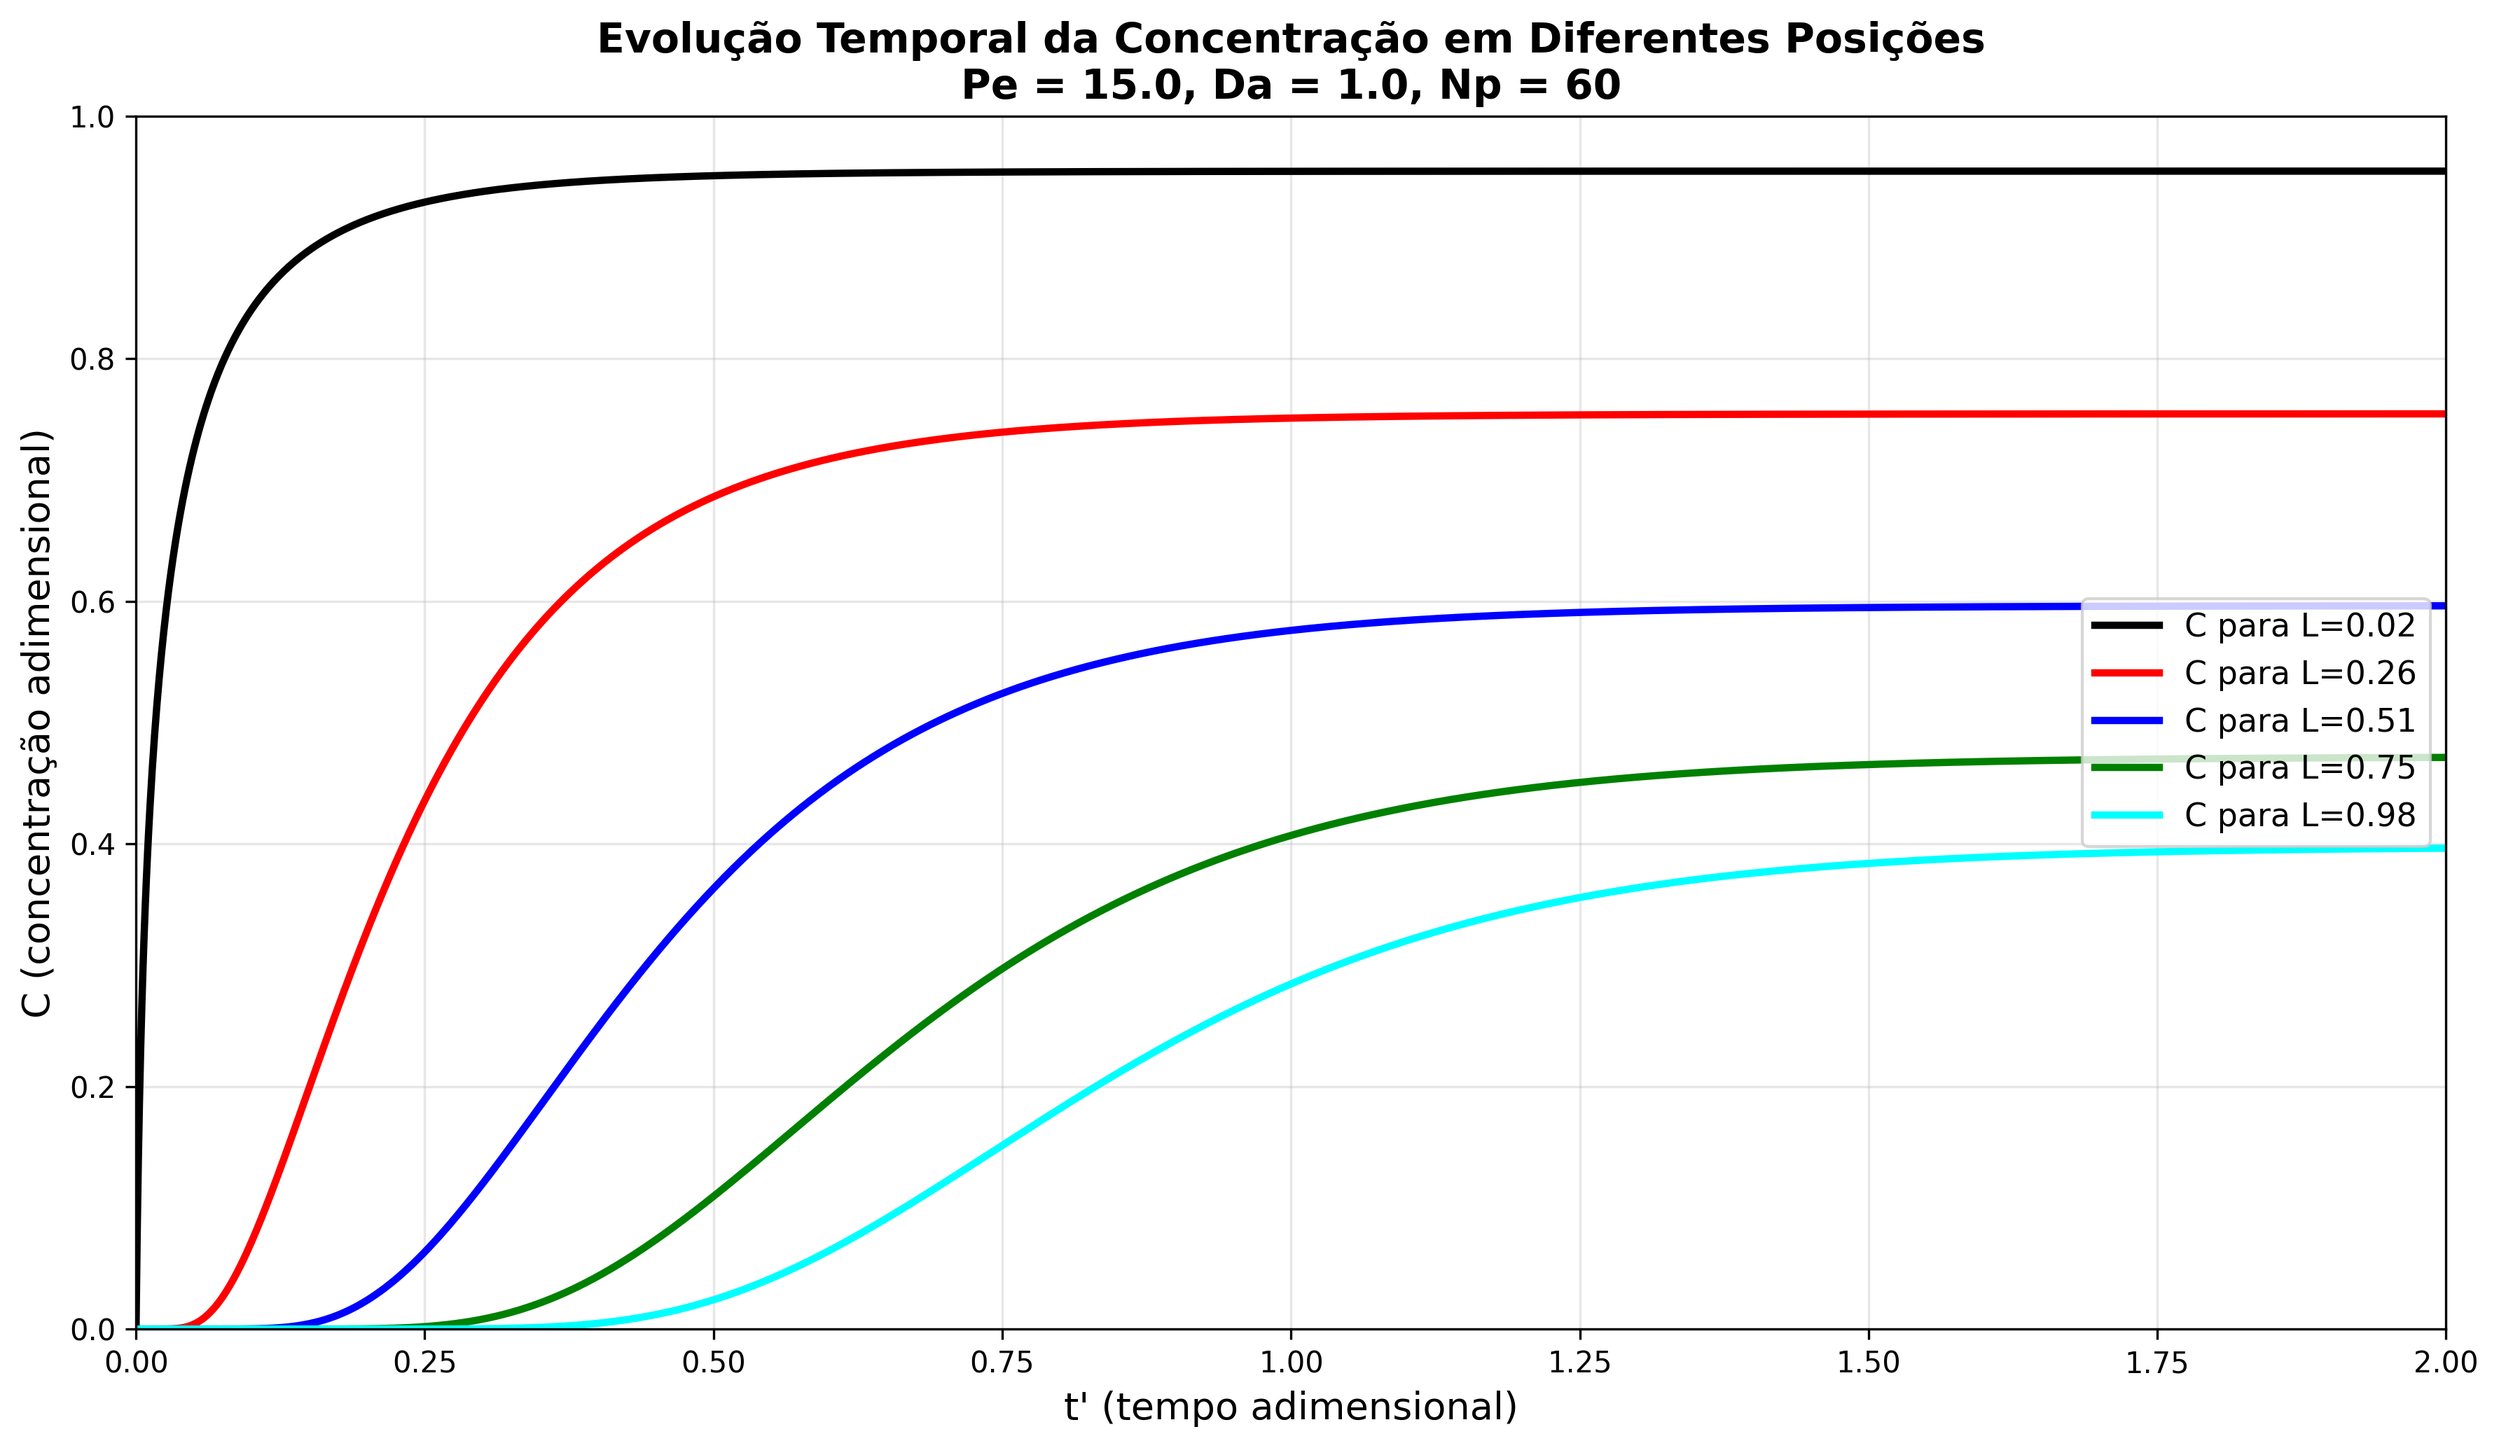
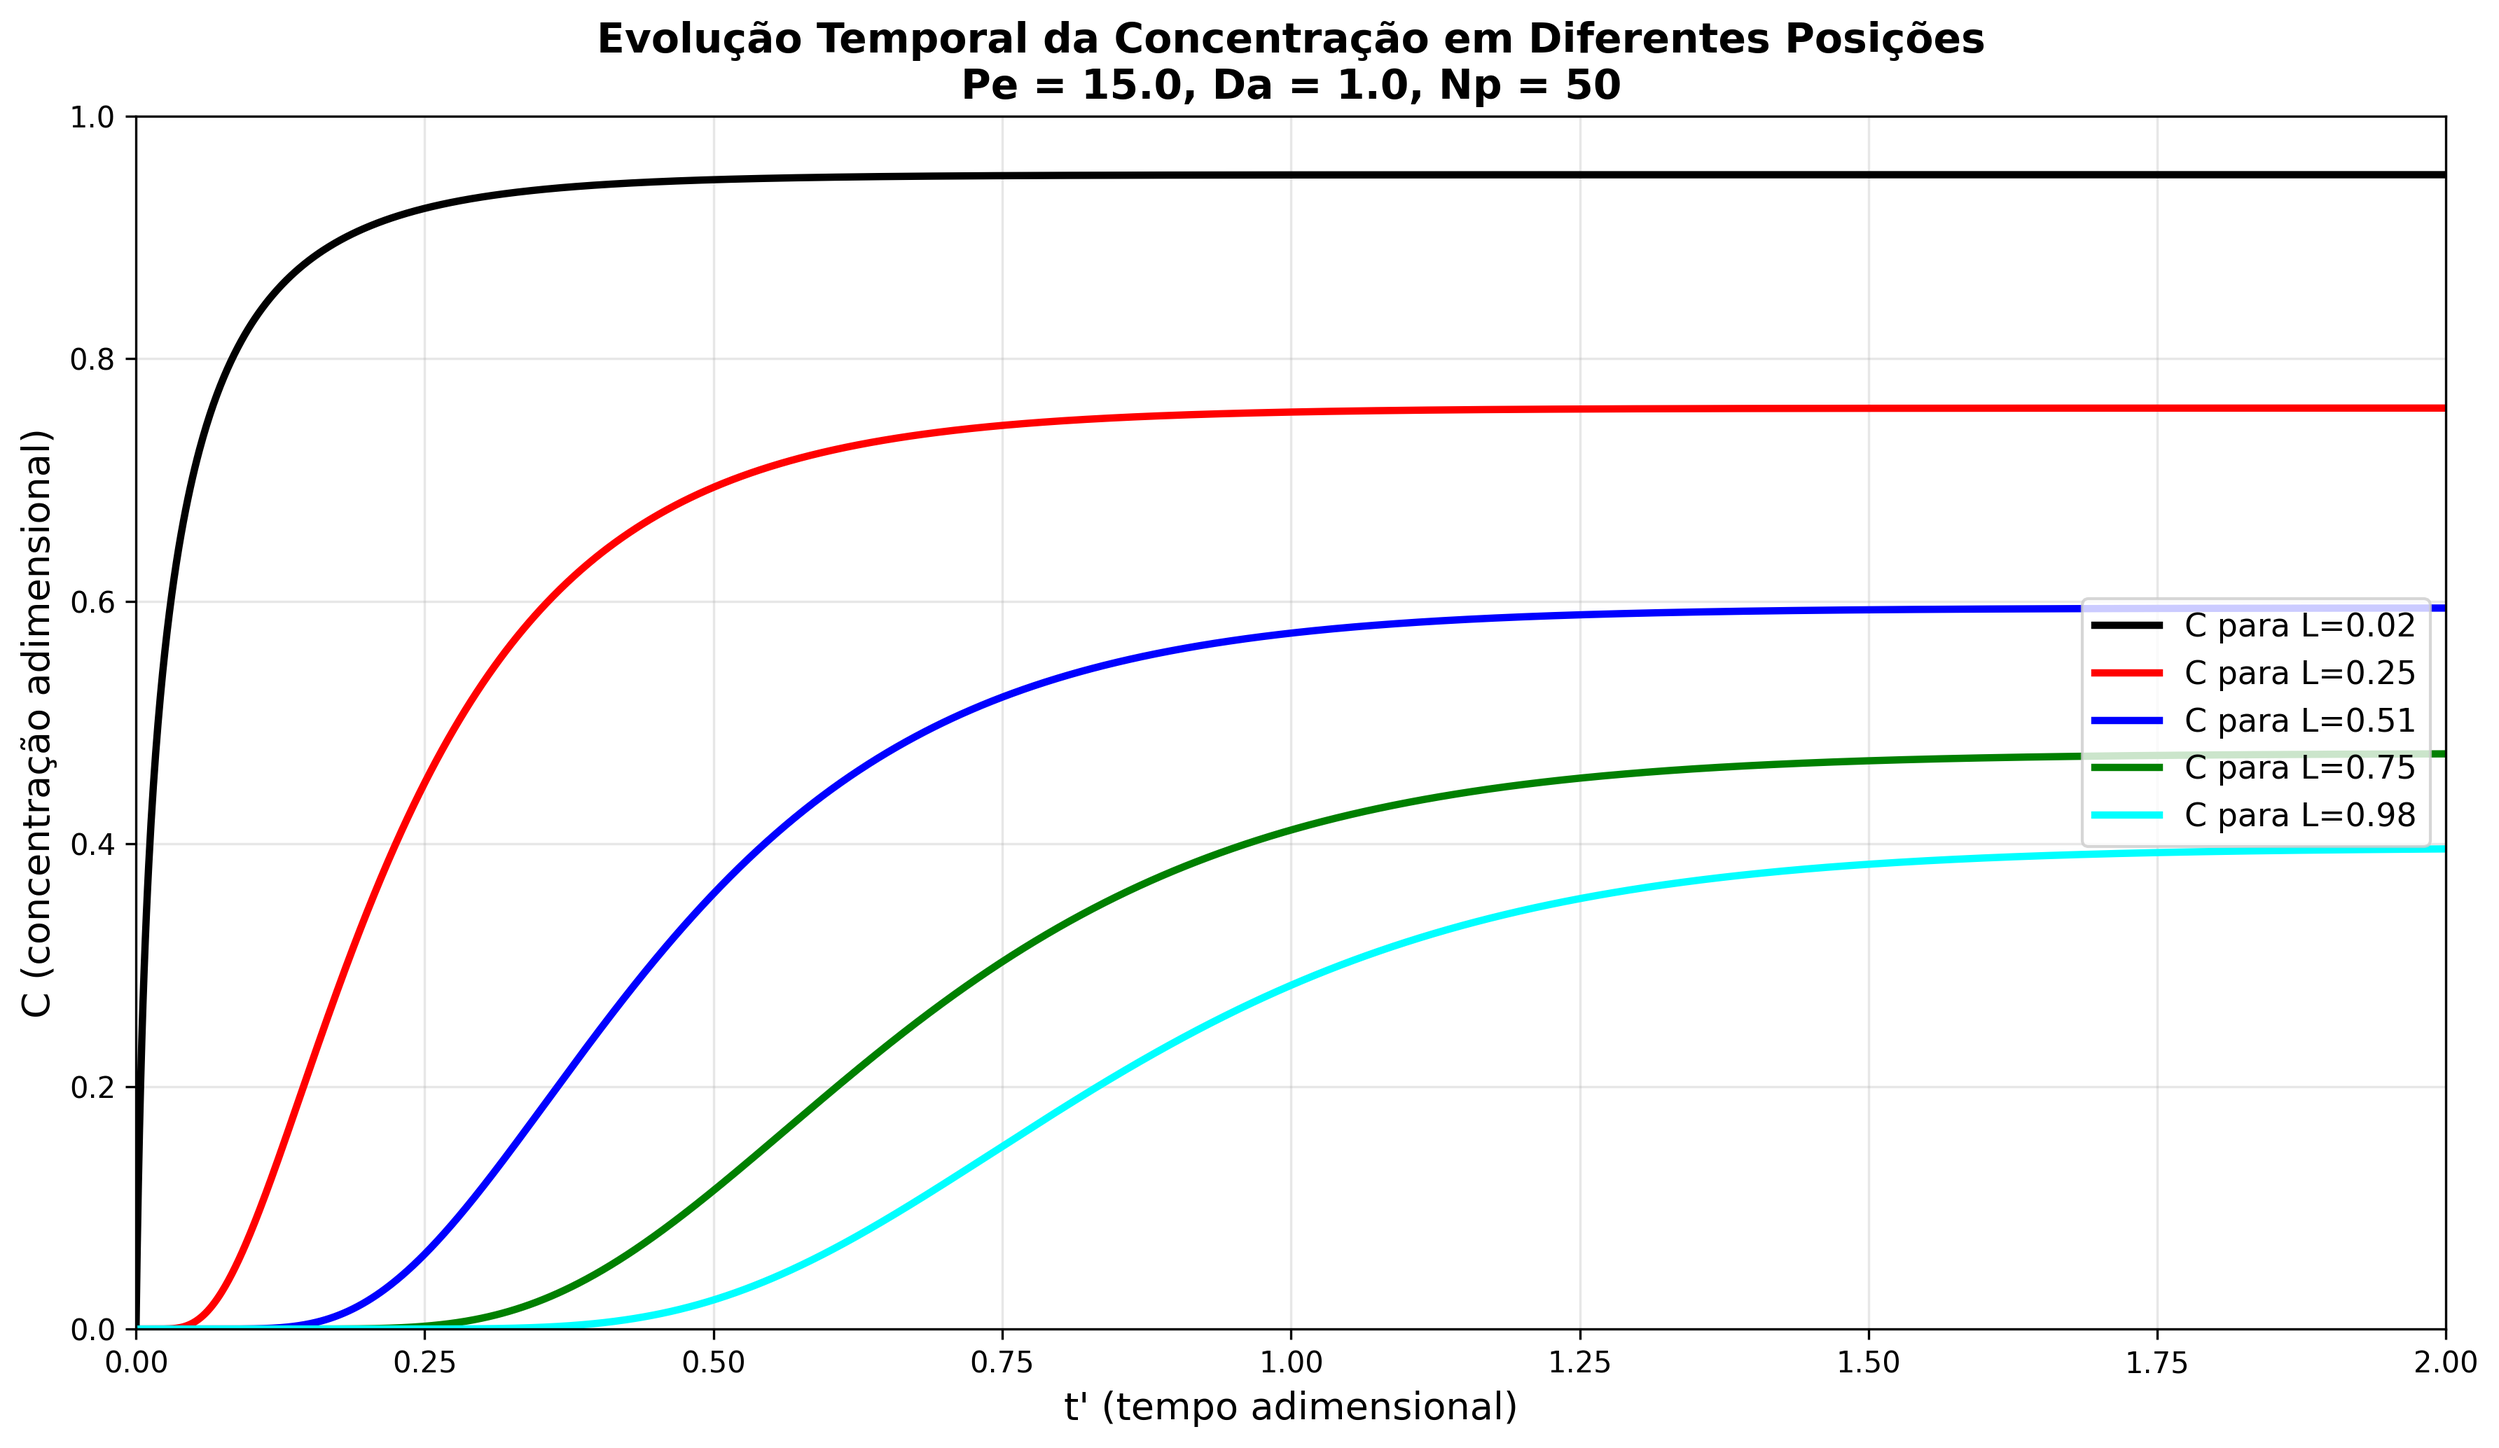
segunda versao aula 04

diff --git a/exercicios sala de aula/aula 04/simulacao_pfr.py b/exercicios sala de aula/aula 04/simulacao_pfr.py
@@ -18,68 +18,26 @@ L = 1.0
 Calim = 1.0
 Pe = 15.0
 Da = 1.0
-Np = 60
+Np = 50
 
-def simular_pfr(Np, t_span, t_eval):
-    DL = L / Np
+DL = L / Np
+
+def sistema_odes(t, C_interior):
+    C0 = (Calim + C_interior[0]/(Pe*2*DL)) / (1 + 1/(Pe*2*DL))
     
-    def sistema_odes(t, C_interior):
-        dCdt = np.zeros(Np)
-        
-        C0 = (Calim + C_interior[0]/(Pe*2*DL)) / (1 + 1/(Pe*2*DL))
-        
-        for i in range(Np):
-            if i == 0:
-                C_prev = C0
-                C_curr = C_interior[0]
-                if Np > 1:
-                    C_next = C_interior[1]
-                else:
-                    C_next = C_curr
-            elif i == Np - 1:
-                C_prev = C_interior[i-1]
-                C_curr = C_interior[i]
-                C_next = C_curr
-            else:
-                C_prev = C_interior[i-1]
-                C_curr = C_interior[i]
-                C_next = C_interior[i+1]
-            
-            dC_dz = (C_next - C_prev) / (2 * DL)
-            d2C_dz2 = (C_next - 2*C_curr + C_prev) / (DL**2)
-            dCdt[i] = (1/Pe) * d2C_dz2 - dC_dz - Da * C_curr
-        
-        return dCdt
+    C = np.zeros(Np + 2)
+    C[0] = C0
+    C[1:Np+1] = C_interior
+    C[Np+1] = C_interior[-1]
     
-    C0_interior = np.zeros(Np)
+    dCdt = np.zeros(Np)
     
-    sol = solve_ivp(
-        sistema_odes,
-        t_span,
-        C0_interior,
-        t_eval=t_eval,
-        method='BDF',
-        rtol=1e-6,
-        atol=1e-8
-    )
+    for i in range(1, Np + 1):
+        dC_dz = (C[i+1] - C[i-1]) / (2 * DL)
+        d2C_dz2 = (C[i+1] - 2*C[i] + C[i-1]) / (DL**2)
+        dCdt[i-1] = (1/Pe) * d2C_dz2 - dC_dz - Da * C[i]
     
-    C_completo = np.zeros((Np + 2, len(sol.t)))
-    C_completo[1:Np+1, :] = sol.y
-    
-    for j in range(len(sol.t)):
-        C_completo[0, j] = (Calim + C_completo[1, j]/(Pe*2*DL)) / (1 + 1/(Pe*2*DL))
-        C_completo[Np+1, j] = C_completo[Np, j]
-    
-    z = np.linspace(0, L, Np + 2)
-    
-    sol_completo = type('obj', (object,), {
-        't': sol.t,
-        'y': C_completo,
-        'success': sol.success,
-        'message': sol.message if hasattr(sol, 'message') else ''
-    })()
-    
-    return sol_completo, z
+    return dCdt
 
 t_span = (0, 2)
 t_eval = np.linspace(0, 2, 2000)
@@ -90,13 +48,33 @@ print(f"  L = {L}")
 print(f"  Pe = {Pe}")
 print(f"  Da = {Da}")
 print(f"  Calim = {Calim}")
+print(f"  DL = {DL:.6f}")
 
-sol, z = simular_pfr(Np, t_span, t_eval)
+C0_interior = np.zeros(Np)
+
+sol = solve_ivp(
+    sistema_odes,
+    t_span,
+    C0_interior,
+    t_eval=t_eval,
+    method='BDF',
+    rtol=1e-6,
+    atol=1e-8
+)
 
 if not sol.success:
     print(f"Aviso: {sol.message}")
 else:
     print("Simulação concluída com sucesso!")
+
+C_completo = np.zeros((Np + 2, len(sol.t)))
+for j in range(len(sol.t)):
+    C0 = (Calim + sol.y[0, j]/(Pe*2*DL)) / (1 + 1/(Pe*2*DL))
+    C_completo[0, j] = C0
+    C_completo[1:Np+1, j] = sol.y[:, j]
+    C_completo[Np+1, j] = sol.y[-1, j]
+
+z = np.linspace(0, L, Np + 2)
 
 idx_in = 1
 idx_um_quarto = int(1 + Np * 0.25)
@@ -117,7 +95,7 @@ posicoes = [
 ]
 
 for idx, pos, color in posicoes:
-    ax1.plot(sol.t, sol.y[idx, :], linewidth=2.5, color=color, 
+    ax1.plot(sol.t, C_completo[idx, :], linewidth=2.5, color=color, 
              label=f'C para L={pos:.2f}')
 
 ax1.set_xlabel('t\' (tempo adimensional)', fontsize=13)
@@ -138,7 +116,7 @@ colors = ['black', 'red', 'blue', 'green', 'cyan']
 
 for tempo, color in zip(tempos, colors):
     idx_time = np.argmin(np.abs(sol.t - tempo))
-    ax2.plot(z, sol.y[:, idx_time], linewidth=2.5, color=color, 
+    ax2.plot(z, C_completo[:, idx_time], linewidth=2.5, color=color, 
              label=f't\' = {tempo:.2f}')
 
 ax2.set_xlabel('L (posição)', fontsize=13)
@@ -163,25 +141,35 @@ result_lines.append(f"  L (comprimento) = {L}")
 result_lines.append(f"  Calim = {Calim}")
 result_lines.append(f"  Pe (Péclet) = {Pe}")
 result_lines.append(f"  Da (Damköhler) = {Da}")
-result_lines.append(f"  Np (número de pontos) = {Np}")
-result_lines.append(f"  DL = {L/Np:.6f}")
+result_lines.append(f"  Np (número de pontos internos) = {Np}")
+result_lines.append(f"  DL = {DL:.6f}")
+result_lines.append("")
+result_lines.append("Discretização:")
+result_lines.append(f"  i=0 (ponto virtual): condição Danköhler")
+result_lines.append(f"  i=1 a i={Np}: pontos internos com EDOs")
+result_lines.append(f"  i={Np+1} (ponto virtual): condição Neumann")
+result_lines.append("")
+result_lines.append("Equações:")
+result_lines.append(f"  dC_i/dt = (1/Pe)*(C_{{i+1}}-2C_i+C_{{i-1}})/DL² - (C_{{i+1}}-C_{{i-1}})/(2*DL) - Da*C_i")
+result_lines.append(f"  C_0 = Calim + (1/Pe)*(C_1-C_0)/(2*DL)")
+result_lines.append(f"  C_{Np+1} = C_{Np}")
 result_lines.append("="*70)
 result_lines.append("")
 
 result_lines.append("CONCENTRAÇÕES EM DIFERENTES POSIÇÕES (t' = 2.0):")
 for idx, pos, _ in posicoes:
-    C_final = sol.y[idx, -1]
+    C_final = C_completo[idx, -1]
     result_lines.append(f"  L = {pos:.4f}: C = {C_final:.6f}")
 
 result_lines.append("")
-conversao = (Calim - sol.y[idx_out, -1]) / Calim * 100
+conversao = (Calim - C_completo[idx_out, -1]) / Calim * 100
 result_lines.append(f"CONVERSÃO NA SAÍDA: {conversao:.2f}%")
 result_lines.append("")
 
-result_lines.append("EVOLUÇÃO TEMPORAL NA SAÍDA (L = 1.0):")
+result_lines.append("EVOLUÇÃO TEMPORAL NA SAÍDA (L ≈ 1.0):")
 for tempo in [0, 0.25, 0.5, 1.0, 1.5, 2.0]:
     idx_time = np.argmin(np.abs(sol.t - tempo))
-    C_out_t = sol.y[idx_out, idx_time]
+    C_out_t = C_completo[idx_out, idx_time]
     result_lines.append(f"  t' = {tempo:4.2f}: C = {C_out_t:.6f}")
 
 print('\n'.join(result_lines))
